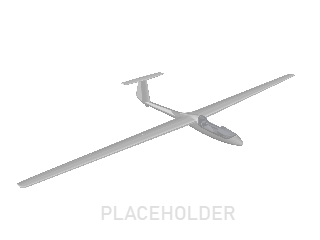
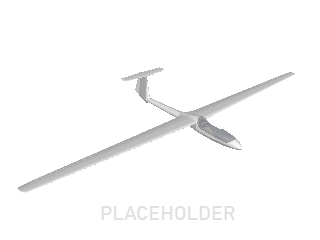
material colors & thumbs

diff --git a/main.js b/main.js
@@ -93,11 +93,21 @@ async function handleLiveryJson(data) {
  * @param {string[]} texture
  * @param {number[]} index
  * @param {number[]} parts
+ * @param {Object[]} mats
  */
-function loadLivery(texture, index, parts) {
+function loadLivery(texture, index, parts, mats) {
     //change livery
     for (let i = 0; i < texture.length; i++) {
         const model3d = geofs.aircraft.instance.definition.parts[parts[i]]['3dmodel'];
+        // check for material definition (for untextured parts)
+        if (typeof texture[i] === 'object') {
+            if (texture[i].material !== undefined) {
+                const mat = mats[texture[i].material];
+                model3d._model.getMaterial(mat.name)
+                    .setValue('diffuse', new Cesium.Cartesian4(...mat.diffuse, 1.0));
+            }
+            continue;
+        }
         if (geofs.version == 2.9) {
             geofs.api.Model.prototype.changeTexture(texture[i], index[i], model3d);
         } else if (geofs.version >= 3.0 && geofs.version <= 3.7) {
@@ -243,7 +253,7 @@ function listLiveries() {
             class: 'livery-list-item'
         });
         listItem.onclick = () => {
-            loadLivery(e.texture, airplane.index, airplane.parts);
+            loadLivery(e.texture, airplane.index, airplane.parts, e.materials);
             if (e.mp != 'disabled') {
                 // use vanilla ids for basegame compat
                 setInstanceId(idx+(e.credits?.toLowerCase()=='geofs'?'':liveryIdOffset));
@@ -294,7 +304,10 @@ function addCustomForm() {
     document.querySelector('#livery-custom-tab-upload .upload-fields').innerHTML = '';
     document.querySelector('#livery-custom-tab-direct .upload-fields').innerHTML = '';
     const airplane = getCurrentAircraft();
-    const textures = airplane.liveries[0].texture;
+    const textures = airplane.liveries[0].texture.filter(t=>typeof t !== 'object');
+    if (!textures.length) {
+        return; // ignore material defs
+    }
     const placeholders = airplane.labels;
     if (textures.filter(x => x === textures[0]).length === textures.length) { // the same texture is used for all indexes and parts
         createUploadButton(placeholders[0]);
@@ -495,10 +508,13 @@ function reloadDownloadsForm(tabDiv) {
     const fields = tabDiv.querySelector('.download-fields');
     fields.innerHTML = '';
     liveries.forEach((livery,liveryNo) => {
+        const textures = livery.texture.filter(t => typeof t !== 'object');
+        if (!textures.length) return; // ignore material defs
         appendNewChild(fields, 'h7').innerHTML = livery.name;
         const wrap = appendNewChild(fields, 'div');
-        livery.texture.forEach((href,i) => {
-            if (liveryNo>0 && href == defaults.texture[i]) return;
+        textures.forEach((href,i) => {
+            if (typeof href === 'object') return;
+            if (liveryNo > 0 && href == defaults.texture[i]) return;
             const link = appendNewChild(wrap,'a',{href,target:'_blank',
                 class:"mdl-button mdl-button--raised mdl-button--colored"
             });
